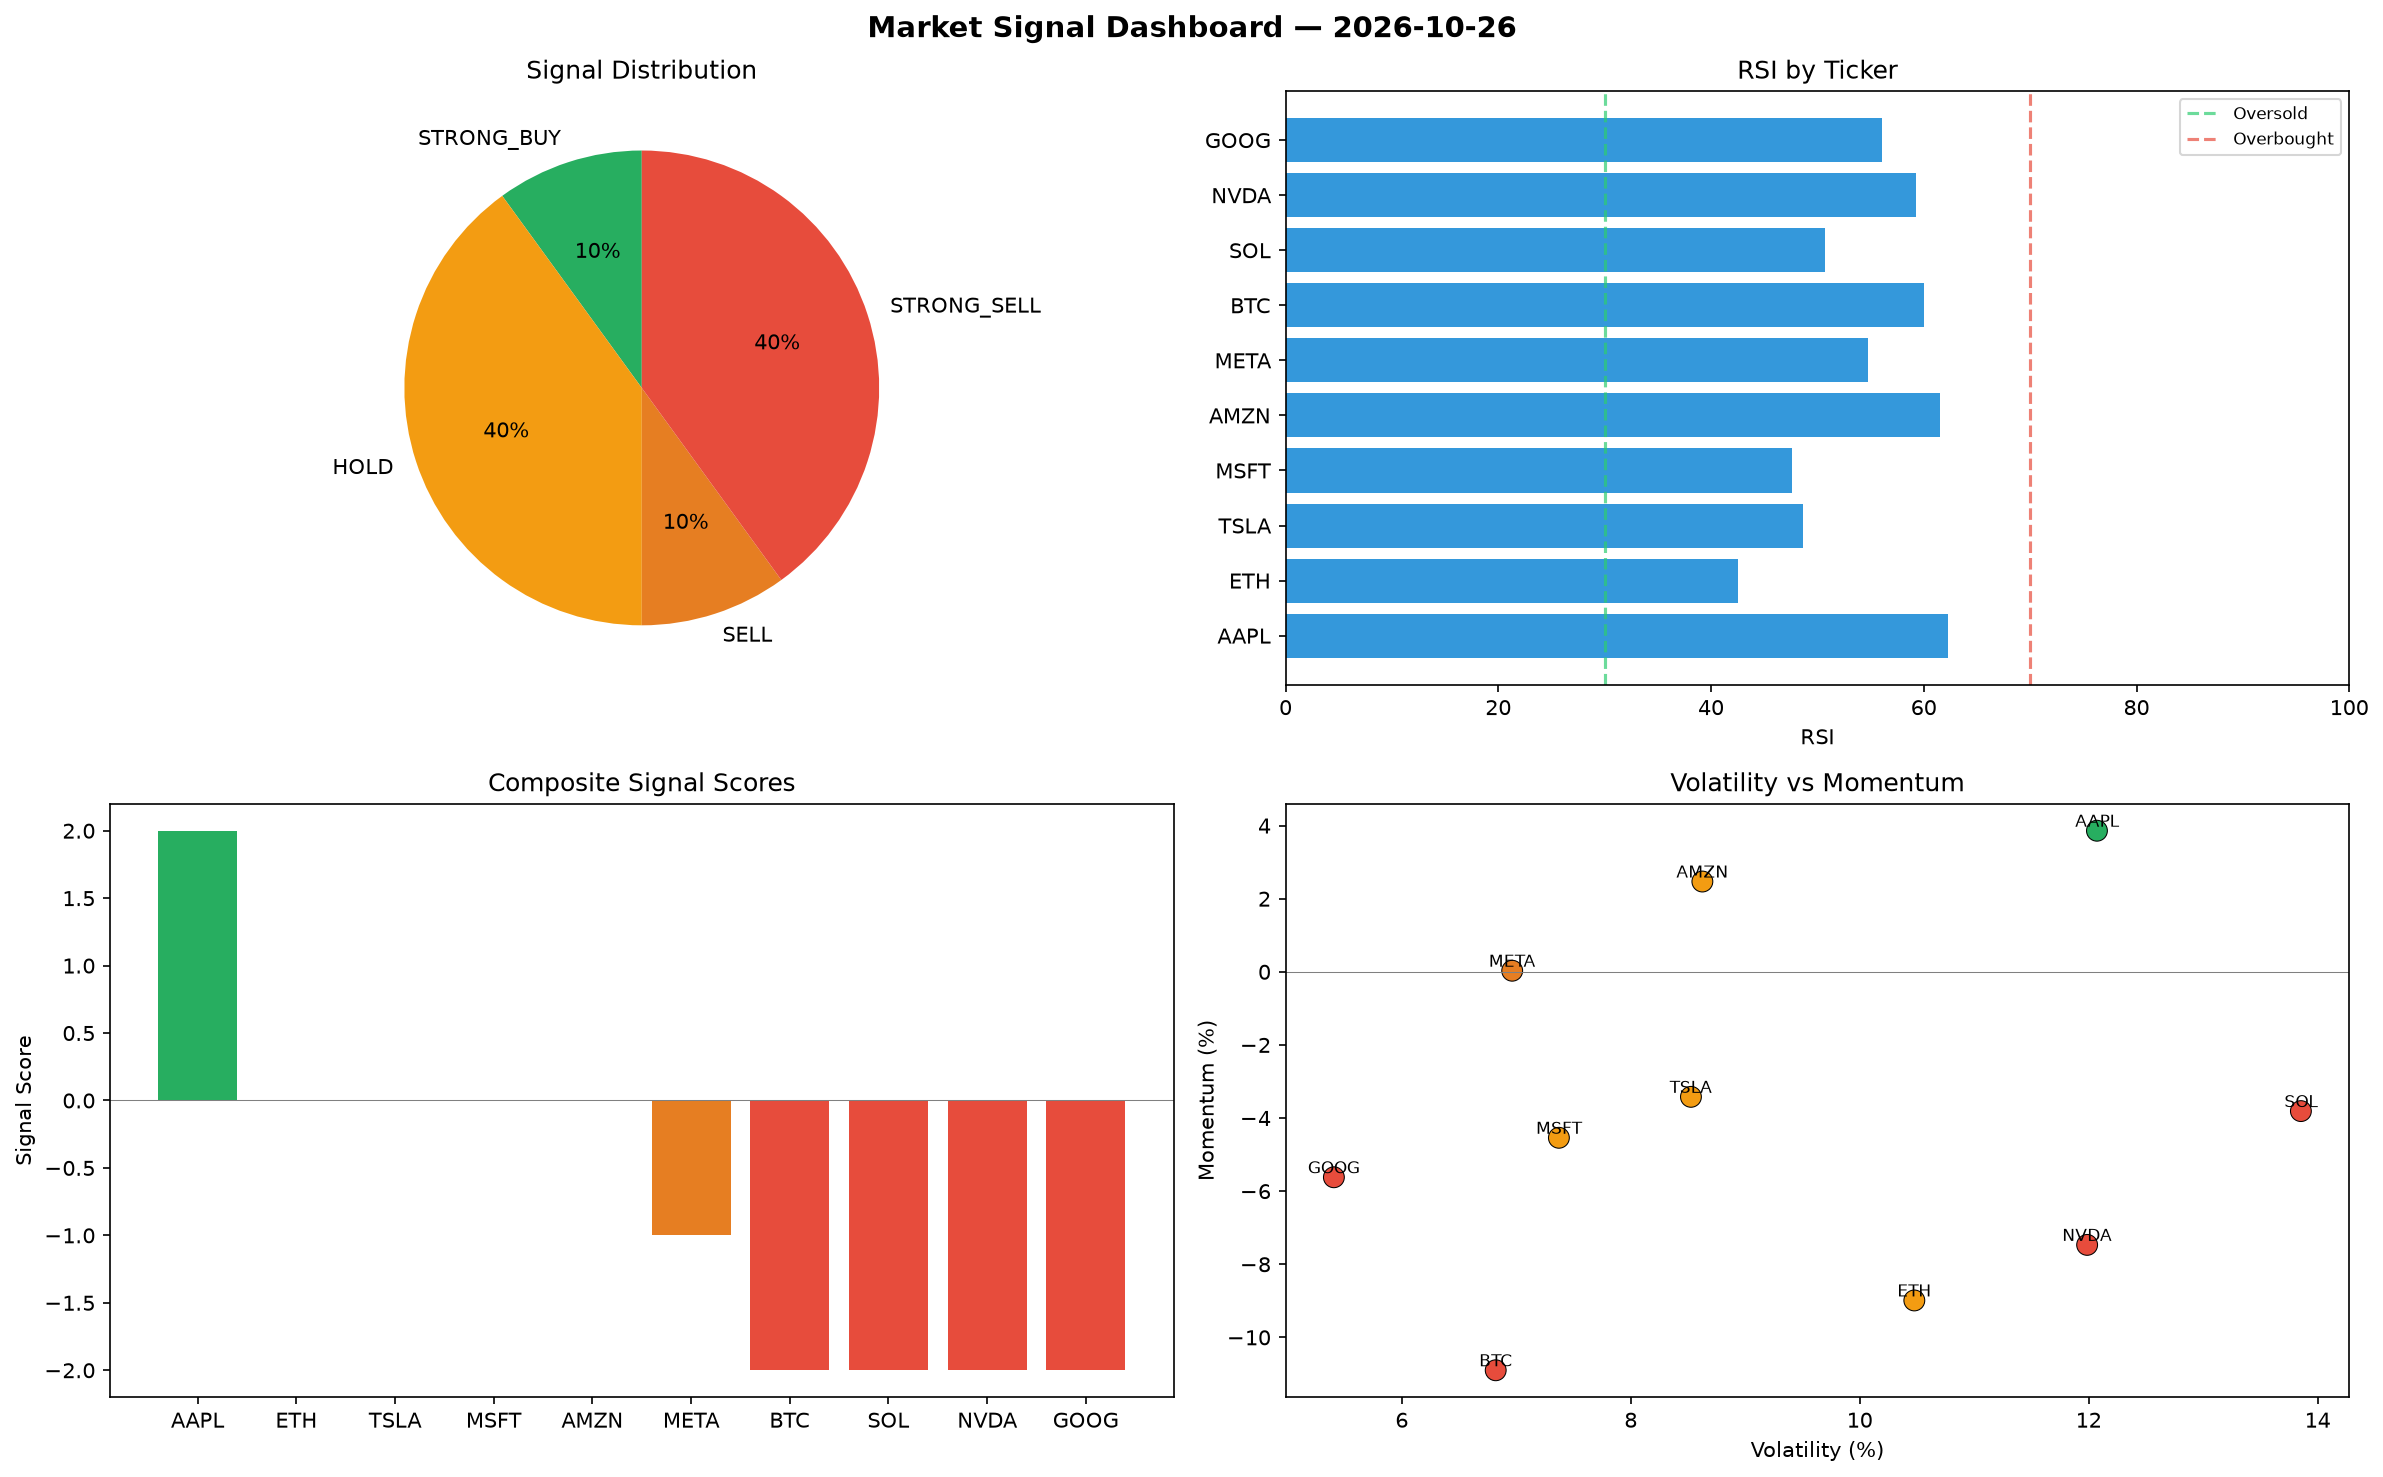
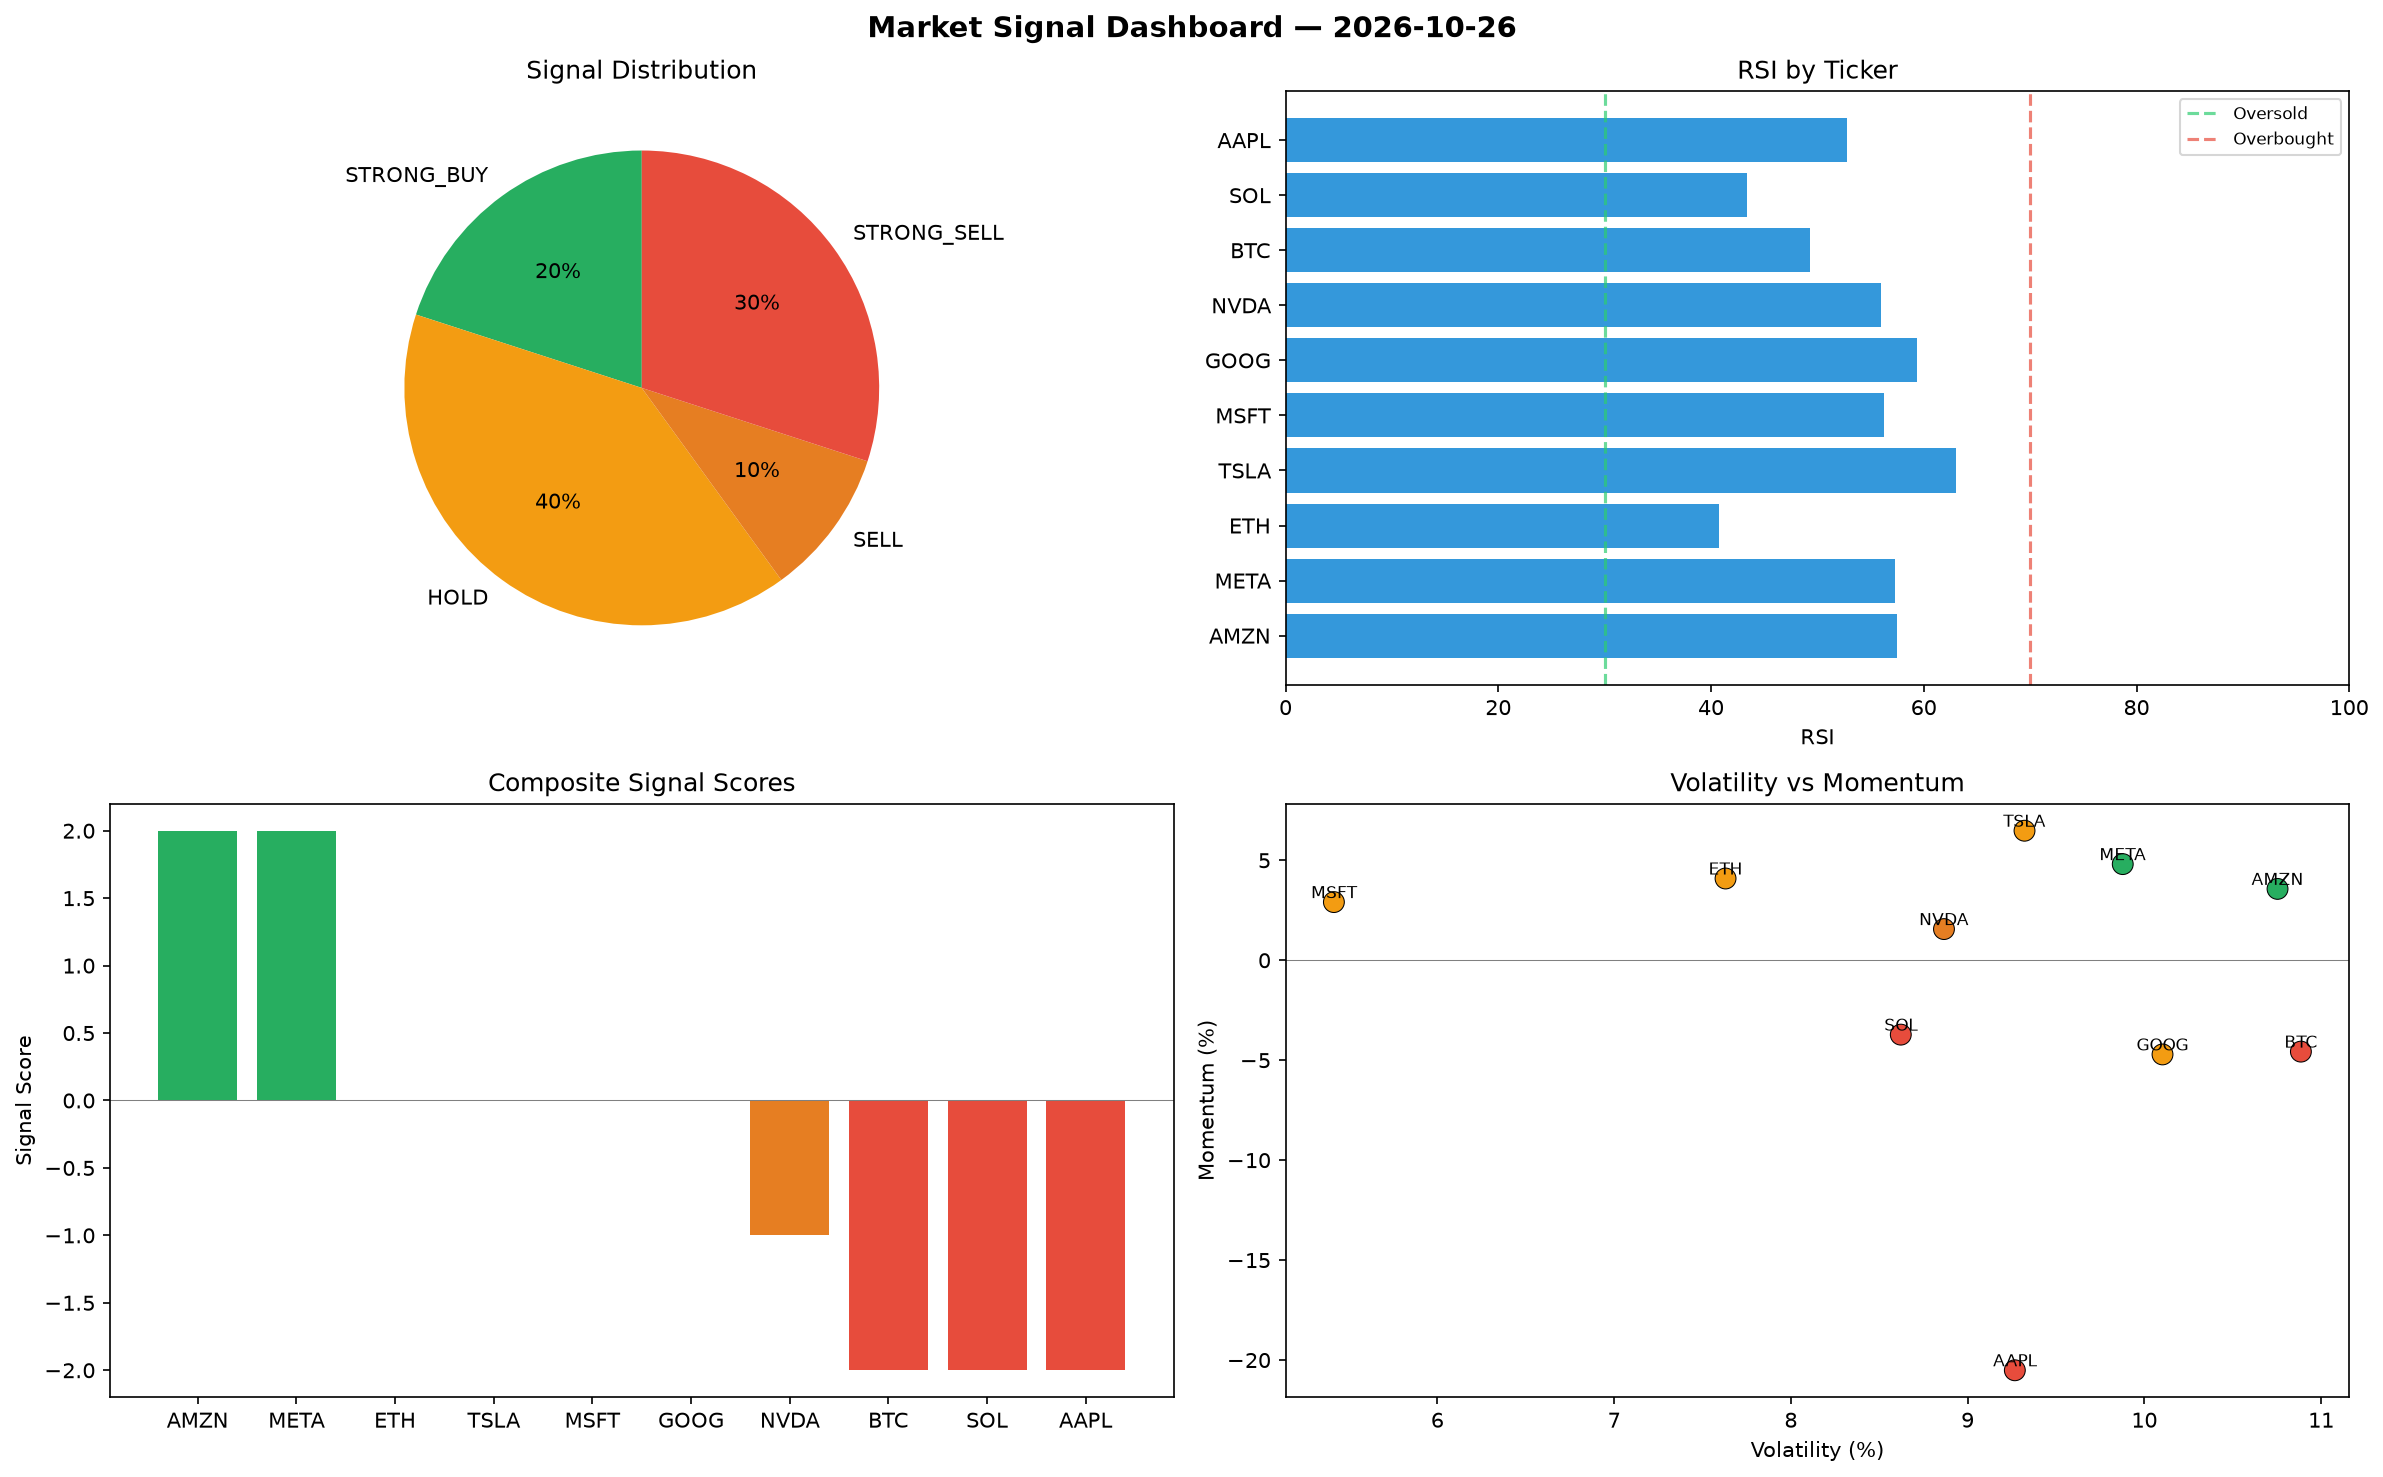
automated-bots: market signals 2026-10-26T23:57

diff --git a/logs/2026-10-26.md b/logs/2026-10-26.md
@@ -1,6 +1,6 @@
 # Market Signal Report — 2026-10-26
 
-**Run ID:** `1b8d343a45` | **Buy:** 1 | **Sell:** 5 | **Hold:** 4
+**Run ID:** `cecea18b1f` | **Buy:** 2 | **Sell:** 4 | **Hold:** 4
 
 ![Dashboard](2026-10-26_dashboard.png)
 
@@ -8,28 +8,28 @@
 
 | Ticker | Price | Signal | Score | RSI | Momentum | Confidence |
 |--------|-------|--------|-------|-----|----------|------------|
-| AAPL | $2809.37 | **STRONG_BUY** | 2 | 62.27 | 0.0386 | 0.5 |
-| ETH | $611.85 | **HOLD** | 0 | 42.5 | -0.0899 | 0.0 |
-| TSLA | $3874.43 | **HOLD** | 0 | 48.61 | -0.0342 | 0.0 |
-| MSFT | $3488.92 | **HOLD** | 0 | 47.6 | -0.0454 | 0.0 |
-| AMZN | $2700.67 | **HOLD** | 0 | 61.54 | 0.0247 | 0.0 |
-| META | $224.86 | **SELL** | -1 | 54.8 | 0.0003 | 0.25 |
-| BTC | $4474.95 | **STRONG_SELL** | -2 | 60.0 | -0.109 | 0.5 |
-| SOL | $4788.11 | **STRONG_SELL** | -2 | 50.7 | -0.0381 | 0.5 |
-| NVDA | $3620.41 | **STRONG_SELL** | -2 | 59.31 | -0.0747 | 0.5 |
-| GOOG | $3776.73 | **STRONG_SELL** | -2 | 56.07 | -0.0562 | 0.5 |
+| AMZN | $3915.91 | **STRONG_BUY** | 2 | 57.5 | 0.0357 | 0.5 |
+| META | $1421.69 | **STRONG_BUY** | 2 | 57.26 | 0.0481 | 0.5 |
+| ETH | $4066.23 | **HOLD** | 0 | 40.73 | 0.0409 | 0.0 |
+| TSLA | $4892.51 | **HOLD** | 0 | 63.03 | 0.0648 | 0.0 |
+| MSFT | $2623.95 | **HOLD** | 0 | 56.25 | 0.0291 | 0.0 |
+| GOOG | $2325.77 | **HOLD** | 0 | 59.41 | -0.0471 | 0.0 |
+| NVDA | $202.45 | **SELL** | -1 | 55.98 | 0.0156 | 0.25 |
+| BTC | $4486.6 | **STRONG_SELL** | -2 | 49.27 | -0.0457 | 0.5 |
+| SOL | $2472.2 | **STRONG_SELL** | -2 | 43.42 | -0.0372 | 0.5 |
+| AAPL | $771.61 | **STRONG_SELL** | -2 | 52.79 | -0.2051 | 0.5 |
 
 ## Delta vs Yesterday
 
 | Ticker | Today | Yesterday | Price Change | Signal Changed |
 |--------|-------|-----------|-------------|----------------|
-| AAPL | STRONG_BUY | HOLD | 📉 -39.91% | ⚠ YES |
-| ETH | HOLD | STRONG_SELL | 📉 -48.46% | ⚠ YES |
-| TSLA | HOLD | STRONG_BUY | 📈 165.94% | ⚠ YES |
-| MSFT | HOLD | STRONG_BUY | 📈 4.01% | ⚠ YES |
-| AMZN | HOLD | STRONG_SELL | 📈 78.55% | ⚠ YES |
-| META | SELL | STRONG_BUY | 📉 -85.75% | ⚠ YES |
-| BTC | STRONG_SELL | STRONG_SELL | 📈 51.25% | — |
-| SOL | STRONG_SELL | BUY | 📈 29.97% | ⚠ YES |
-| NVDA | STRONG_SELL | HOLD | 📉 -16.31% | ⚠ YES |
-| GOOG | STRONG_SELL | STRONG_SELL | 📉 -0.34% | — |
+| AMZN | STRONG_BUY | STRONG_SELL | 📈 158.9% | ⚠ YES |
+| META | STRONG_BUY | STRONG_BUY | 📉 -9.9% | — |
+| ETH | HOLD | STRONG_SELL | 📈 242.5% | ⚠ YES |
+| TSLA | HOLD | STRONG_BUY | 📈 235.82% | ⚠ YES |
+| MSFT | HOLD | STRONG_BUY | 📉 -21.78% | ⚠ YES |
+| GOOG | HOLD | STRONG_SELL | 📉 -38.63% | ⚠ YES |
+| NVDA | SELL | HOLD | 📉 -95.32% | ⚠ YES |
+| BTC | STRONG_SELL | STRONG_SELL | 📈 51.64% | — |
+| SOL | STRONG_SELL | BUY | 📉 -32.9% | ⚠ YES |
+| AAPL | STRONG_SELL | HOLD | 📉 -83.5% | ⚠ YES |
